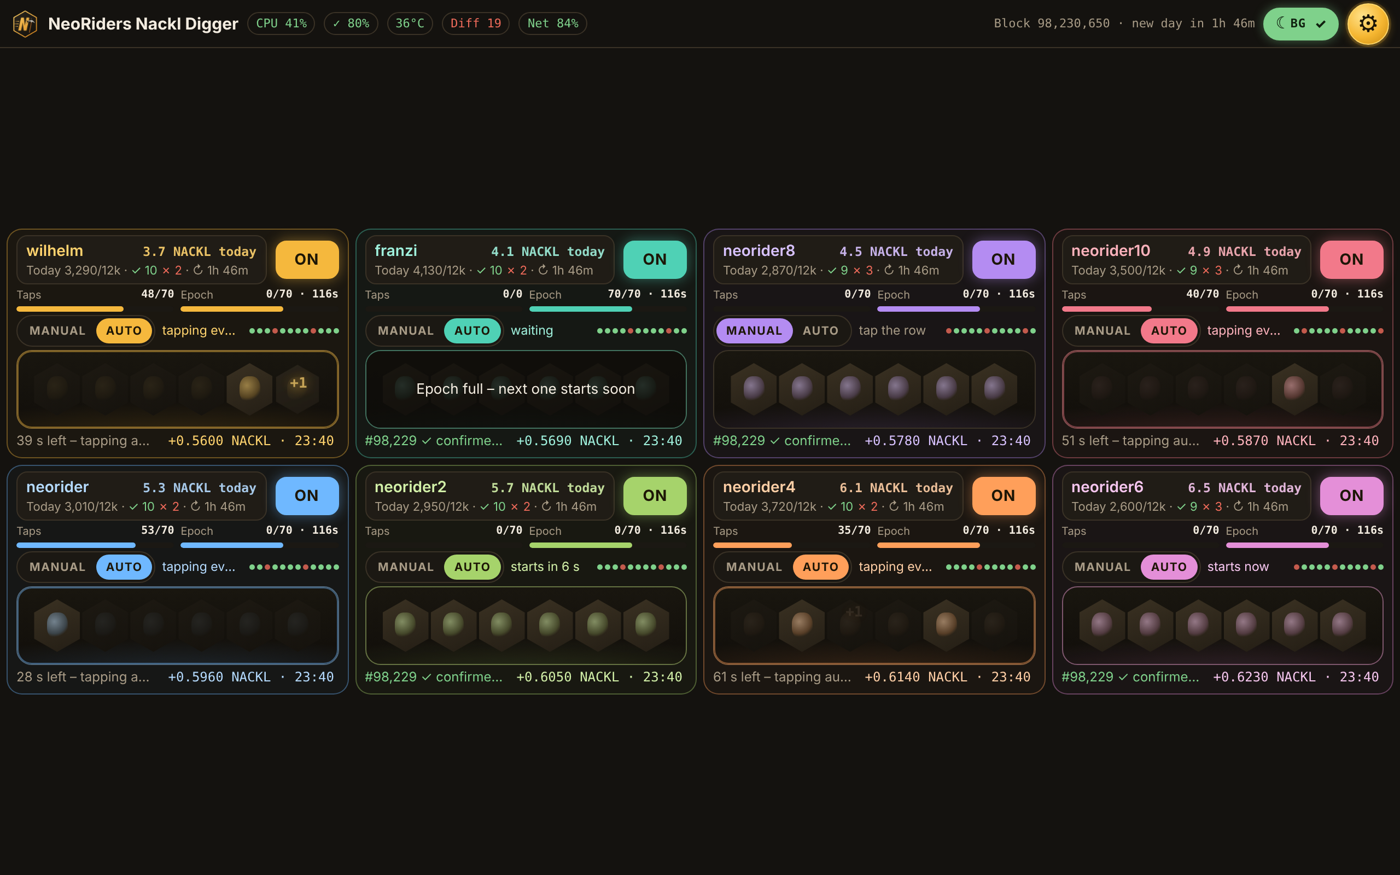
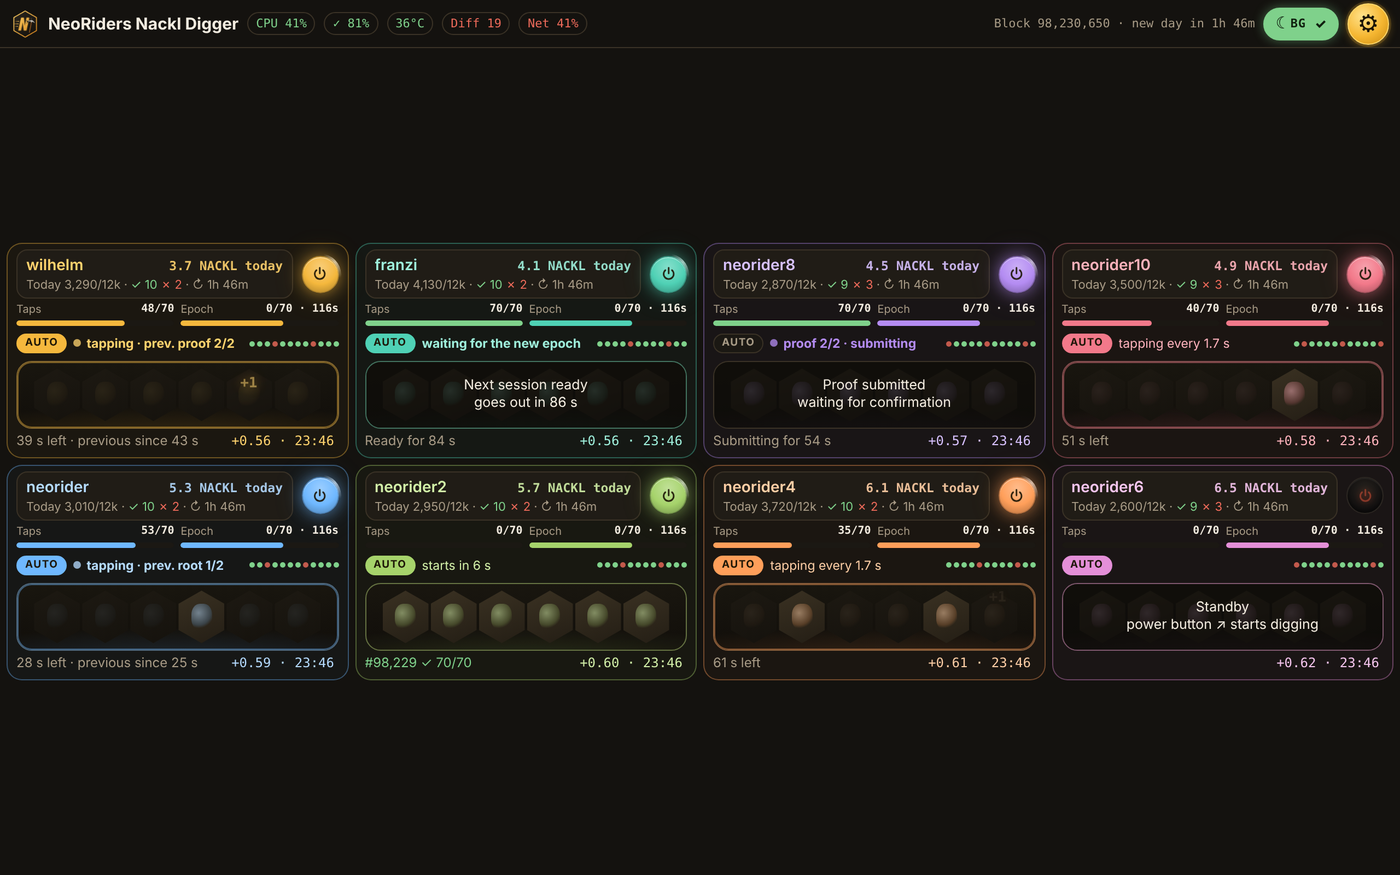
new

diff --git a/README.md b/README.md
@@ -26,7 +26,9 @@
 ## Top features
 
 - 🐝 **2, 4, 6, 8, 10 or 12 wallets on one device** – one tap row per wallet, each on its own CPU core
-- 🤖 **AUTO by default** – a tap every 1.714 s per wallet, evenly spread, every tap visible in the row. Prefer your own finger? Switch a wallet to **MANUAL**
+- 🤖 **AUTO by default** – a tap every 1.714 s per wallet, evenly spread, every tap visible in the row. Prefer your own finger? Switch the small **AUTO** button off and tap yourself
+- ⏻ **A real power button per wallet** – a softly breathing red standby light when off, a shimmer in the wallet's colour when on
+- 👀 **Always see what's running** – *root 1/2 · submitting*, *proof 2/2 · submitting*, *premined · ready*, also for the previous session while the next one is already being mined
 - ⚡ **Performance test** in ⚙ Settings – measures your device and tells you how many wallets it can run
 - 🌙 **Background mode (optional)** – reliable digging with the screen off: ☾ BG in the header, with a step-by-step setup (notifications, battery, manufacturer settings) and a notification with a Stop button
 - 📶 **Network-friendly with many wallets** – staggered starts and sessions, shared status reads, smart resubmission and endpoint failover
@@ -50,7 +52,7 @@
 
 1. **Install** the APK from [Releases](https://github.com/NeoRider12/Nackl-Digger/releases/latest).
 2. **Pair** your AN Wallet: tap a wallet → *Wallet Connect* → confirm the connection and the mining key in the AN Wallet.
-3. **Switch the wallet ON** – it starts in **AUTO** and the app taps every 1.7 s for you (70 taps over about 2 minutes count per epoch of ~5.5 min).
+3. **Press the wallet's power button** – it starts in **AUTO** and the app taps every 1.7 s for you (70 taps over about 2 minutes count per epoch of ~5.5 min).
 4. Optional: tap **☾ BG** to keep digging with the screen off, and run ⚙ → **Performance test** before adding more wallets.
 5. The app **submits** each session and shows `✓ confirmed` or `✗ …`. **NACKL arrives** in your wallet a few minutes later – the app claims it for you.
 
@@ -58,12 +60,14 @@
 
 **Mining**
 - **2, 4, 6, 8, 10 or 12 wallets** on phones and tablets – as many as your device handles (see the performance test); tablet layouts 3 × 2 up to 4 × 3, phones scroll
-- **AUTO or MANUAL per wallet** – AUTO is the default and has no knobs to get wrong; MANUAL lets you tap yourself
+- **AUTO or manual per wallet** – one small AUTO toggle; AUTO is the default and has no knobs to get wrong, switched off you tap yourself
+- **Power button per wallet** (top right): red standby glow when off, wallet-coloured shimmer when on, a fast-running ring while a restore runs
+- **Clear status lines:** next to AUTO the current step (*root 1/2 · submitting*, *root ✓ · waiting for interval*, *proof 2/2 · submitting*, *premined · ready*, or *tapping · prev. proof 2/2* while the previous session is still being submitted); in the tap row what is happening right now; at the bottom times and the last payout
 - **Multi-core:** every wallet computes its proof on its own CPU core; the engine is compiled once for all wallets
 - **Performance test:** one core, then 2/4/6/8/10/12 wallets at once, at the current difficulty – with a recommendation
 - **Epoch-aware:** shows taps, duration and time left; waits for the next epoch instead of starting a session that could not finish in time
-- **Premining:** the next session is mined while the previous one is still being submitted and goes out as soon as that one is through – no epoch is lost to a slow network (Bee Engine patches by the author of goblingames)
-- **Patient submitting:** root and proof are resent unchanged for up to 10 min, also after the epoch has ended – the session still counts
+- **Premining:** the next session is mined while the previous one is still being submitted. If the previous one was credited, the next goes out right after the new epoch starts – no epoch is lost to a slow network (Bee Engine patches by the author of goblingames). A premined session that can't be used after a failure is not counted as a second failure
+- **Patient submitting:** root (up to 210 s) and proof (up to 240 s) are resent unchanged, also after the epoch has ended – the session still counts
 
 **Background mode (optional)**
 - Keeps taps, submissions and reward claims running with the screen off or another app in front
@@ -72,13 +76,15 @@
 
 **When the network is busy**
 - **Smart resubmission:** root and proof are signed once and resent unchanged on *queue full*, timeouts and gateway errors – the node recognises repeats instead of queueing copies
+- **Knocks until it's in:** every submission goes to both endpoints and the active block producer at once and keeps knocking for up to 55 s; a slow answer is not cut off (it is often the one being accepted) – a new attempt simply runs alongside
+- **Never stuck:** if the engine of a wallet stops answering, the session is closed and the engine rebuilt – the wallet keeps digging
 - **Staggered starts and sessions:** wallets don't hit the node in the same second
 - **Shared reads:** identical status requests of several wallets go out once
 - **Two endpoints with failover:** `mainnet` and `mainnet-cf`
 - **Self-healing:** reads the session state from the contract if the node's events don't arrive, clears a stuck session on chain, auto-restore after repeated failures
 
 **Payouts**
-- **Automatic claiming:** if a confirmed epoch is not paid out with the next session in time, the app sends `get_reward` itself, so rewards don't expire
+- **Automatic claiming:** if a confirmed epoch is not paid out with the next session in time, the app sends `get_reward` itself, so rewards don't expire – but never while a session of that wallet is being submitted, so the two can't get in each other's way
 - **NACKL today** next to every wallet name (current 24-h day)
 - **Per-epoch overview:** status, taps and NACKL received for every session; last payout with time on the main screen
 - **Wallet sheet:** today's total, locked and unlocked balance
@@ -97,16 +103,17 @@
 <p align="center"><em>Tablet in portrait with eight wallets · wallet sheet with epochs and payouts (demo values)</em></p>
 
 **Comfort & safety**
-- Header with CPU load, success rate, difficulty, network quality and device temperature
+- Header with CPU load, success rate (wallets that are ON), difficulty, network quality and device temperature. *Net %* is honest: it counts every single submit answer including retries (*queue full*, 429, no answer), so it shows how tough the network really is – the ✓ rate next to it shows what still got through
 - Heat protection, daily tap limit, optional off/on at the new 24-h epoch – can also be applied to the day already running
 - **Encrypted backup** of settings and all pairings (restore after reinstalling)
-- Optional screen dimming while digging, exportable log
+- Optional screen dimming while digging, down to **Extreme (−100 %)**: fully black with the lowest backlight, a tap lights it up for 30 s / 1 / 5 / 15 min (ring timer in ⚙)
+- Exportable log
 
 The app ID was issued by the Acki Nacki team, and the app is shared with their permission.
 
 ## Network upgrade status
 
-Live page showing how many Acki Nacki block keepers support the next node version and when their epochs end:
+Live page showing how many Acki Nacki block keepers support the next node version, who still holds it back, when their epochs end – and **“Switch done”** as soon as the first keepers report the new version. Works for every future upgrade by itself:
 **[neorider12.github.io/Nackl-Digger/upgrade.html](https://neorider12.github.io/Nackl-Digger/upgrade.html)** (data straight from `mainnet-cf.ackinacki.org/v2/bk_set_update`, refreshed every 60 s).
 
 ## Install
@@ -121,8 +128,8 @@ Live page showing how many Acki Nacki block keepers support the next node versio
 
 ## FAQ
 
-**AUTO or MANUAL?**
-AUTO is the easy way: switch it on and let the app dig. It only taps while the wallet is ON and a session can still finish in the epoch, and it respects the daily limit. Run ⚙ → *Performance test* once to see how many wallets your device keeps up with.
+**AUTO or tapping yourself?**
+AUTO is the easy way: press the power button and let the app dig. To tap yourself, switch the small AUTO button off. It only taps while the wallet is ON and a session can still finish in the epoch, and it respects the daily limit. Run ⚙ → *Performance test* once to see how many wallets your device keeps up with.
 
 **How many wallets can my device run?**
 Open ⚙ → *Performance test* (about 20 s, best with all wallets off). It measures your device at the current difficulty and recommends how many wallets it can run (up to 12). With 8 or more wallets keep an eye on the temperature in the header during the first hour – heat protection switches wallets off if the device gets too hot.
